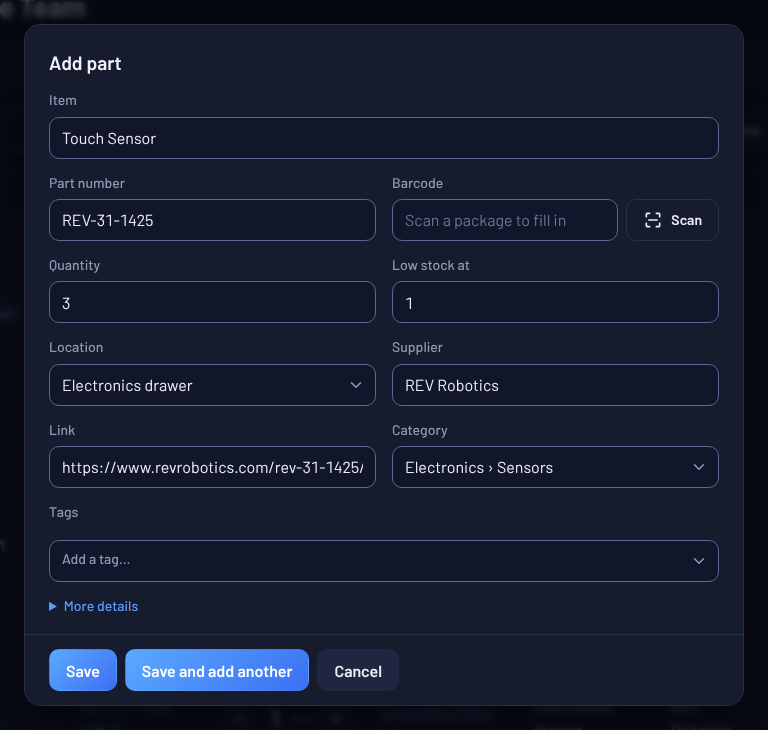
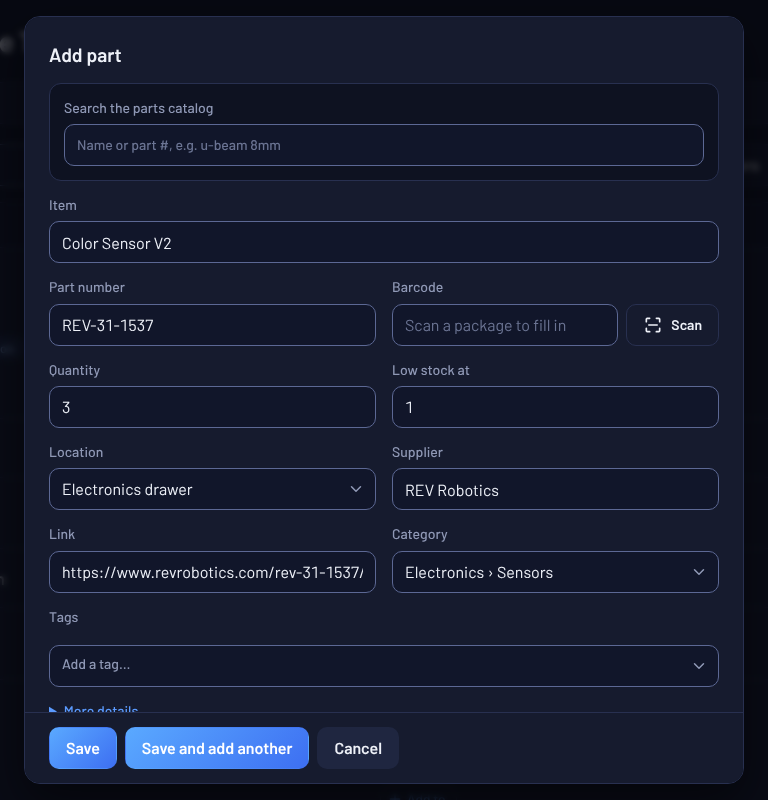
Search the parts catalog by name in Add part
Typing words like "u-beam 8mm" lists matching catalog parts, best matches
first. Tapping one fills in the name, part number, supplier, category and
link, and leaves quantity and location to the user.

diff --git a/src/main.js b/src/main.js
@@ -2,7 +2,7 @@ import QRCode from 'qrcode';
 import * as firebase from './firebase.js';
 import { parseFirebaseConfig, encodeJoinCode, decodeJoinCode, findTeam, newSecret } from './joincode.js';
 import { scanCode, BARCODES } from './scanner.js';
-import { codeKey, findProduct } from './catalog.js';
+import { codeKey, findProduct, searchCatalog } from './catalog.js';
 import { printLabels, printSheet } from './labels.js';
 import { toCsv, parseCsv } from './csv.js';
 import { startStatusBanners, checkRules } from './status.js';
@@ -1343,12 +1343,51 @@ async function scanBarcodeInto(form) {
   for (const key of ['name', 'partNumber', 'supplier', 'link']) {
     if (!form[key].value) form[key].value = product[key] ?? '';
   }
-  const category = product.category && canonicalCategory(product.category);
-  if (category && !form.category.value) {
-    if (![...form.category.options].some((o) => o.value === category)) form.category.add(new Option(categoryLabel(category), category), form.category.options.length - 1);
-    form.category.value = category;
-    form.category.dispatchEvent(new Event('change')); // so "+ New category…" falls back to it
-  }
+  if (product.category && !form.category.value) setCategory(form.category, canonicalCategory(product.category));
+}
+
+// Lists catalog parts matching what's typed in the part form's catalog search. Picking one fills in its name, part
+// number, supplier, link and category, leaving quantity and location to the user.
+function searchCatalogInto(form, field) {
+  const search = field.querySelector('input');
+  const list = field.querySelector('ul');
+  let found = [];
+  const pick = (product) => {
+    for (const key of ['name', 'partNumber', 'supplier', 'link']) form[key].value = product[key] ?? '';
+    if (product.category) setCategory(form.category, canonicalCategory(product.category));
+    search.value = '';
+    list.hidden = true;
+    form.quantity.focus();
+    form.quantity.select();
+  };
+  search.oninput = async () => {
+    const query = search.value;
+    const results = query.trim() ? await searchCatalog(query, 30).catch((error) => error) : [];
+    if (search.value !== query) return; // a later keystroke's search is on its way
+    list.hidden = !query.trim();
+    if (results instanceof Error) return (list.innerHTML = `<li class="muted small">${esc(results.message)}</li>`);
+    found = results;
+    list.innerHTML = found.map((p, i) => `<li><button type="button" class="secondary" data-index="${i}">
+        <span><strong>${esc(p.name)}</strong><span class="muted small">${esc(p.supplier)} · ${esc(p.partNumber)}</span></span>
+      </button></li>`).join('') || '<li class="muted small">No catalog parts match. Fill in the part yourself below.</li>';
+  };
+  // Enter picks the best match instead of saving the form.
+  search.onkeydown = (e) => {
+    if (e.key !== 'Enter') return;
+    e.preventDefault();
+    if (found.length && !list.hidden) pick(found[0]);
+  };
+  list.onclick = (e) => {
+    const index = e.target.closest('button')?.dataset.index;
+    if (index !== undefined) pick(found[index]);
+  };
+}
+
+// Picks a category in a form's category picker, adding it to the picker when no part uses it yet.
+function setCategory(select, category) {
+  if (![...select.options].some((o) => o.value === category)) select.add(new Option(categoryLabel(category), category), select.options.length - 1);
+  select.value = category;
+  select.dispatchEvent(new Event('change')); // so "+ New category…" falls back to it
 }
 
 // The part a code is saved on as its barcode or part number. Prefers the inventory on screen.
@@ -1859,6 +1898,11 @@ function openPartDialog(part, carry = null, note = '') {
       ${carry?.added ? `<p class="muted small">${carry.added} added so far. Location, category and tags are kept from the last part.</p>` : ''}
       ${note ? `<p class="muted small">${esc(note)}</p>` : ''}
       ${part && onOrder(part.id) ? `<p class="muted small">${onOrder(part.id)} on order. Tap Arrived in Orders when they come in.</p>` : ''}
+      ${part ? '' : `<div class="field catalog-search">
+        <label for="catalog-search">Search the parts catalog</label>
+        <input id="catalog-search" type="search" autocomplete="off" placeholder="Name or part #, e.g. u-beam 8mm" />
+        <ul class="picker" hidden></ul>
+      </div>`}
       ${input('name', 'Item', 'required')}
       ${input('partNumber', 'Part number')}
       <label>Barcode
@@ -1924,6 +1968,7 @@ function openPartDialog(part, carry = null, note = '') {
   watchNewCategory(form.category);
   watchNewLocation(form.location);
   autofillFromCatalog(form);
+  if (!part) searchCatalogInto(form, dialog.querySelector('.catalog-search'));
   dialog.querySelector('#scan-barcode').onclick = () => scanBarcodeInto(form).catch(showError);
 
   const tagBox = dialog.querySelector('#part-tags');
@@ -1972,7 +2017,8 @@ function openPartDialog(part, carry = null, note = '') {
     openPartDialog(null, { ...kept, added: (carry?.added ?? 0) + 1 });
   };
   if (!dialog.open) dialog.showModal();
-  if (carry) form.name.focus();
+  // A new part starts at the catalog search, unless it's already filled in from the catalog.
+  if (carry) (carry.name ? form.name : dialog.querySelector('#catalog-search')).focus();
   // Opening a part to look at it doesn't bring up the phone keyboard; tapping a field does.
   if (part) document.activeElement.blur();
 }

diff --git a/src/catalog.js b/src/catalog.js
@@ -10,26 +10,47 @@ export const codeKey = (code) => {
 
 function index(catalog) {
   const byCode = new Map();
+  const all = [];
   for (const [supplier, parts] of Object.entries(catalog)) {
     for (const [partNumber, upc, name, category, link] of parts) {
       const product = { supplier, partNumber, name, category, link };
+      all.push({ product, text: `${name} ${partNumber} ${supplier}`.toLowerCase() });
       for (const code of [upc, partNumber].filter(Boolean)) {
         if (!byCode.has(codeKey(code))) byCode.set(codeKey(code), product);
       }
     }
   }
-  return byCode;
+  return { byCode, all };
 }
 
 // Browsers don't fetch a module again after it failed, so a failed load needs the app reloaded.
 const products = import('./catalog.json').then(({ default: catalog }) => index(catalog));
 products.catch(() => {}); // reported below, when a lookup needs the catalog
 
-// The supplier's part for a package barcode (its UPC, or a printed part number), or null if the catalog doesn't have it.
-export async function findProduct(code) {
-  const byCode = await products.catch((error) => {
+function loaded() {
+  return products.catch((error) => {
     console.error(error);
     throw new Error('Couldn’t load the part catalog. Reload the app while online, then try again.');
   });
+}
+
+// The supplier's part for a package barcode (its UPC, or a printed part number), or null if the catalog doesn't have it.
+export async function findProduct(code) {
+  const { byCode } = await loaded();
   return byCode.get(codeKey(code)) ?? null;
 }
+
+// Catalog parts with every word of the search in their name, part number or supplier, so "u-beam 8mm" finds
+// "1101 Series U-Beam (1 Hole, 8mm Length)". Parts whose words start with the searched words come first, then shorter names.
+export async function searchCatalog(query, limit) {
+  const words = query.toLowerCase().split(/\s+/).filter(Boolean);
+  const { all } = await loaded();
+  return all.filter(({ text }) => words.every((word) => text.includes(word)))
+    .map(({ product, text }) => ({ product, starts: words.filter((word) => wordStarts(text).includes(` ${wordStarts(word).trim()}`)).length }))
+    .sort((a, b) => b.starts - a.starts || a.product.name.length - b.product.name.length)
+    .slice(0, limit)
+    .map(({ product }) => product);
+}
+
+// Text with punctuation as spaces and a leading space, so " beam" finds a word starting with "beam".
+const wordStarts = (text) => ` ${text.replace(/[^a-z0-9]/g, ' ')}`;

diff --git a/src/style.css b/src/style.css
@@ -392,6 +392,12 @@ dialog:has(.part-form) { width: min(720px, calc(100% - 32px)); }
   dialog .part-form { display: grid; grid-template-columns: 1fr 1fr; gap: 14px 16px; }
   dialog .part-form > :is(h2, p, .field, .row, label:has(textarea), label:has([name="name"])) { grid-column: 1 / -1; }
 }
+/* Catalog search sits apart at the top of Add part, since picking a result fills in the fields below it. */
+.catalog-search { padding: 14px; background: var(--bg); border: 1px solid var(--border); border-radius: 12px; }
+.catalog-search .picker { max-height: min(320px, 40dvh); }
+.catalog-search .picker[hidden] { display: none; }
+.catalog-search .picker button { min-height: 0; padding: 8px 12px; font-weight: 400; }
+.catalog-search .picker button > span { display: flex; flex-direction: column; }
 /* Fields most parts leave empty fold under More details. */
 .more-details summary { cursor: pointer; color: var(--accent); font-size: 0.875rem; font-weight: 500; }
 .more-fields { display: flex; flex-direction: column; gap: 12px; margin-top: 12px; }

diff --git a/README.md b/README.md
@@ -6,7 +6,7 @@ The ultimate inventory tool for FTC teams. Track each part's name, part number, 
 - **Packing lists:** list what to bring to a competition and check parts off as you pack them. Packed parts show as in use in the inventory until you uncheck them.
 - **Order list:** keep track of parts on order. When one arrives, tap **Arrived** to add it to the inventory.
 - **QR labels:** print labels for bins and parts, all at once or just the ones you pick. The app remembers which labels are printed, so new parts are easy to find. Scanning one with the app or a phone camera opens that bin or part.
-- **Package barcodes:** scan the barcode on a goBILDA, REV, AndyMark, ServoCity, TETRIX or Studica package and the app fills in the part's name, part number, supplier, category and product link from a built-in catalog of their parts (works offline). Typing one of their part numbers fills in the rest the same way. Scanning a part you already have opens it. A barcode the catalog doesn't know is remembered on the part you add for it.
+- **Package barcodes:** scan the barcode on a goBILDA, REV, AndyMark, ServoCity, TETRIX or Studica package and the app fills in the part's name, part number, supplier, category and product link from a built-in catalog of their parts (works offline). Typing one of their part numbers fills in the rest the same way, or search the catalog by name in Add part and tap the part. Scanning a part you already have opens it. A barcode the catalog doesn't know is remembered on the part you add for it.
 - **Organizing:** a fixed list of locations, units, condition, notes and a link on each part, a warning before adding a duplicate, grouping, sorting and a printable inventory sheet.
 - **Low-stock alerts:** give a part a **Low stock at** number and it's flagged once the number free (not used by a project or packing list) drops to that number. The **Low stock** filter lists just those parts.
 - **Subcategories and tags:** write categories like `Hardware/Screws` and tag parts (`spare`, `competition`) to filter by them.

diff --git a/docs/HOW-TO.md b/docs/HOW-TO.md
@@ -75,11 +75,15 @@ On a phone, each part is a card with its location and part number under the name
 
 ## 3. Add and change parts
 
-Tap **+ Add part** and fill in what you know. Only the item name and quantity are required.
+Tap **+ Add part**. The quickest way to fill it in is **Search the parts catalog** at the top: type a few words of the name or the part number, like `u-beam 8mm`, and tap the part. The catalog has goBILDA, REV, AndyMark, ServoCity, TETRIX and Studica parts.
 
-<img src="how-to/add-part.png" alt="The Add part dialog, filled in from the part number" width="480">
+<img src="how-to/catalog-search.png" alt="Searching the parts catalog in Add part" width="480">
 
-- **Type a goBILDA, REV, AndyMark, ServoCity, TETRIX or Studica part number** and the item name, supplier and product link fill in by themselves. Even faster: tap **Scan** next to Barcode and scan the barcode on the package.
+The part's name, part number, supplier, category and product link fill in. Add how many you have and where they are, and **Save**. Only the item name and quantity are required, so parts that aren't in the catalog are just typed in.
+
+<img src="how-to/add-part.png" alt="The Add part dialog, filled in from the catalog" width="480">
+
+- **Typing a part number** from those suppliers fills in the item name, supplier and product link too. Or tap **Scan** next to Barcode and scan the barcode on the package.
 - **Low stock at** flags the part once its quantity drops to that number or below (optional).
 - **Location** comes from your team's list of locations (see [section 5](#5-locations-and-qr-labels)). Pick **+ New location…** to add one without leaving the part.
 - **Category** can have subcategories: `Electronics/Sensors` shows as Electronics › Sensors.
